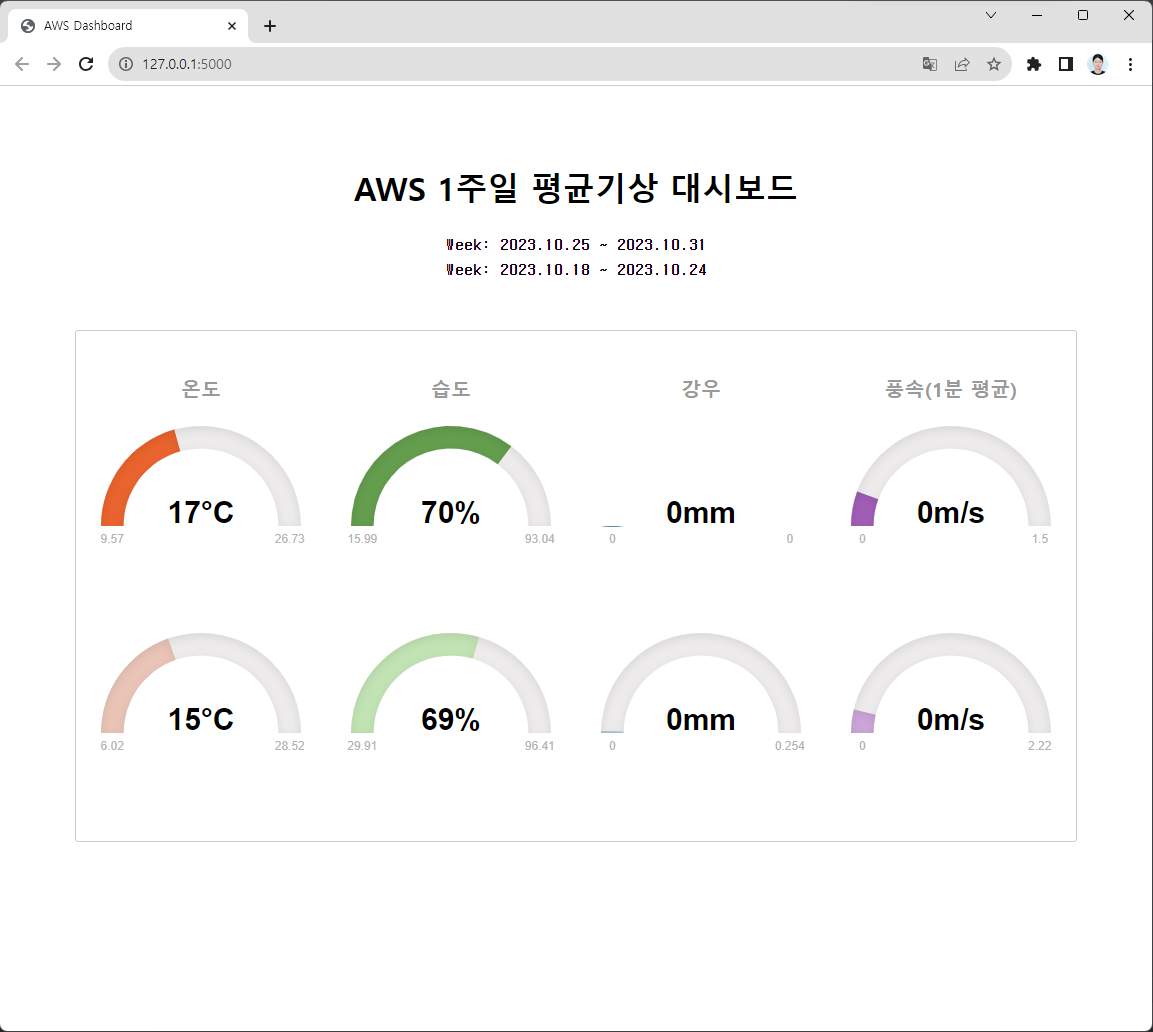
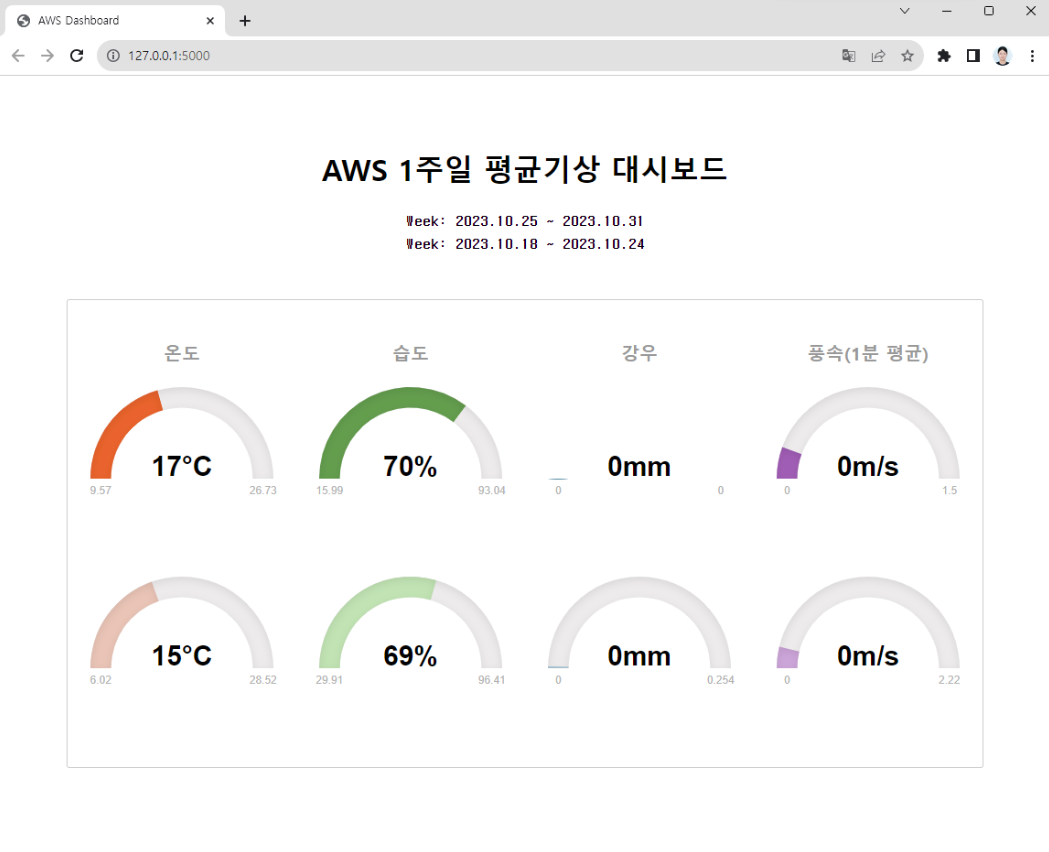
edit dashboard

diff --git a/README.md b/README.md
@@ -19,9 +19,7 @@
   - ```python app.py``` 실행
   - ```http://127.0.0.1:5000``` 연결
     
-<div align="center" style="display:flex;"> 
-    <img src='.asset/dashboard.png' width='600'/>
-</div>
+![](.asset/dashboard.png)
 
 ## Setting
 ### Cron
